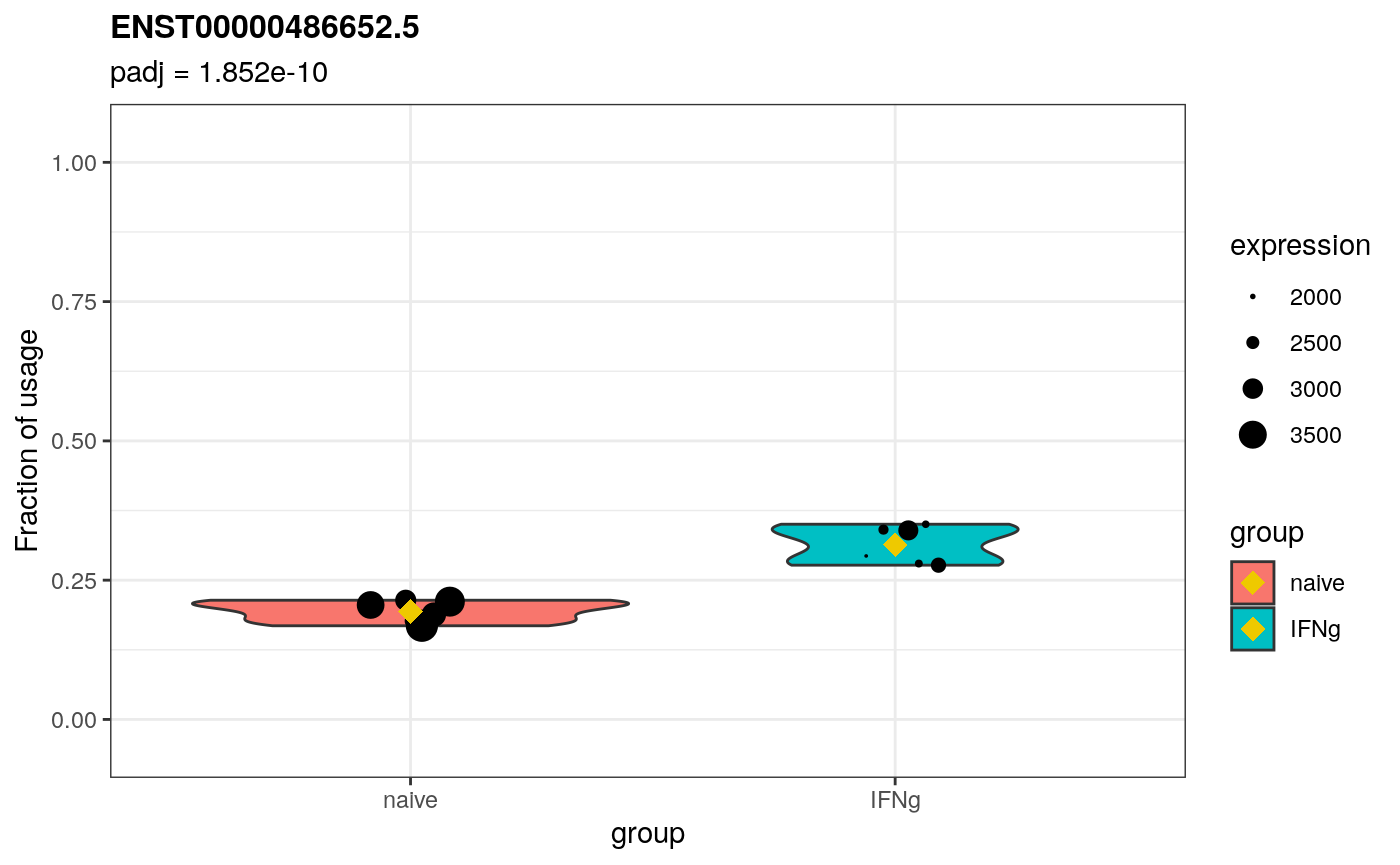
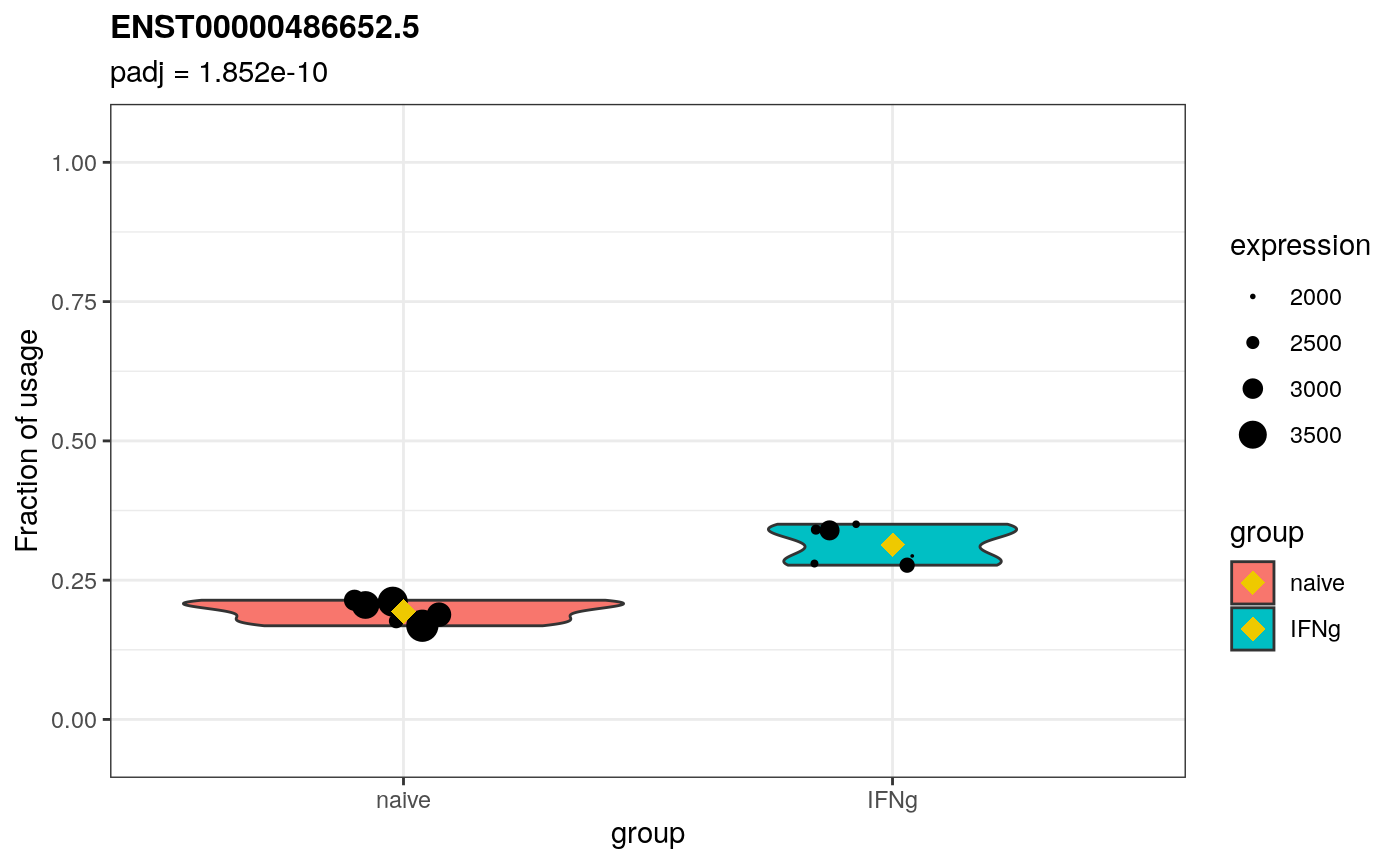
Built site for iSEEtranscripts: 0.1.1@cf42744

diff --git a/articles/transcripts.html b/articles/transcripts.html
@@ -69,7 +69,7 @@
       <h1 data-toc-skip>iSEE into genes: transcripts!</h1>
                         <h4 class="author">everyone</h4>
             
-            <h4 class="date">12/17/2020</h4>
+            <h4 class="date">12/18/2020</h4>
       
       
       <div class="hidden name"><code>transcripts.Rmd</code></div>
@@ -133,7 +133,7 @@
   <span class="va">dxd</span> <span class="op">&lt;-</span> <span class="fu"><a href="https://rdrr.io/pkg/DEXSeq/man/testForDEU.html">testForDEU</a></span><span class="op">(</span><span class="va">dxd</span>, reducedModel<span class="op">=</span><span class="op">~</span><span class="va">sample</span> <span class="op">+</span> <span class="va">exon</span><span class="op">)</span>
 <span class="op">}</span><span class="op">)</span></code></pre></div>
 <pre><code>##    user  system elapsed 
-##  14.009   1.509  12.673</code></pre>
+##  14.562   4.926  11.793</code></pre>
 <div class="sourceCode" id="cb10"><pre class="downlit sourceCode r">
 <code class="sourceCode R"><span class="va">dxr</span> <span class="op">&lt;-</span> <span class="fu"><a href="https://rdrr.io/pkg/DEXSeq/man/DEXSeqResults.html">DEXSeqResults</a></span><span class="op">(</span><span class="va">dxd</span>, independentFiltering<span class="op">=</span><span class="cn">FALSE</span><span class="op">)</span>
 <span class="va">qval</span> <span class="op">&lt;-</span> <span class="fu"><a href="https://rdrr.io/pkg/DEXSeq/man/perGeneQValue.html">perGeneQValue</a></span><span class="op">(</span><span class="va">dxr</span><span class="op">)</span>
@@ -162,25 +162,25 @@
 <pre><code>##                geneID              txID         gene   transcript
 ## 1   ENSG00000225492.6 ENST00000513638.5 0.000000e+00 0.000000e+00
 ## 2   ENSG00000225492.6 ENST00000394662.2 0.000000e+00 0.000000e+00
-## 3   ENSG00000228106.5 ENST00000442171.5 0.000000e+00 2.312905e-16
+## 3   ENSG00000228106.5 ENST00000442171.5 0.000000e+00 2.312812e-16
 ## 4   ENSG00000228106.5 ENST00000450784.5 0.000000e+00 1.000000e+00
 ## 5   ENSG00000228106.5 ENST00000441676.5 0.000000e+00 1.000000e+00
 ## 6   ENSG00000228106.5 ENST00000435378.5 0.000000e+00 1.000000e+00
 ## 7   ENSG00000228106.5 ENST00000457636.5 0.000000e+00 1.000000e+00
-## 8  ENSG00000162923.15 ENST00000486652.5 4.615723e-09 1.851594e-10
-## 9  ENSG00000162923.15 ENST00000414423.7 4.615723e-09 2.625860e-06
-## 10 ENSG00000162923.15 ENST00000443112.6 4.615723e-09 1.000000e+00</code></pre>
-<div id="visualization-at-the-transcript-level" class="section level1">
-<h1 class="hasAnchor">
-<a href="#visualization-at-the-transcript-level" class="anchor"></a>Visualization at the transcript level</h1>
-<p>ENST00000486652.5 is the most significant transcript of the most significant DTU gene (ENSG00000162923.15) that does not have a p-value of exactly 0, so I will demonstrate the visualizations with this transcript. We talked about having the test statistics available within the <code>RangedSummarizedExperiment</code> prior to calling iSEE. For now, I will just add the DEXSeq + stageR adjusted p-values to the rowData.</p>
+## 8  ENSG00000162923.15 ENST00000486652.5 4.616504e-09 1.851921e-10
+## 9  ENSG00000162923.15 ENST00000414423.7 4.616504e-09 2.626296e-06
+## 10 ENSG00000162923.15 ENST00000443112.6 4.616504e-09 1.000000e+00</code></pre>
+<p>We talked about having the test statistics available within the <code>RangedSummarizedExperiment</code> prior to calling iSEE. For now, I will just add the DEXSeq + stageR adjusted p-values to the rowData.</p>
 <div class="sourceCode" id="cb14"><pre class="downlit sourceCode r">
 <code class="sourceCode R"><span class="va">se</span> <span class="op">&lt;-</span> <span class="va">se</span><span class="op">[</span><span class="fu"><a href="https://rdrr.io/r/base/colnames.html">rownames</a></span><span class="op">(</span><span class="va">se</span><span class="op">)</span> <span class="op">%in%</span> <span class="va">dex.padj</span><span class="op">$</span><span class="va">txID</span>,<span class="op">]</span> <span class="co"># filter se based on DRIMSeq filtering? Do we want that as a general rule?</span>
 <span class="fu"><a href="https://rdrr.io/pkg/SummarizedExperiment/man/SummarizedExperiment-class.html">rowData</a></span><span class="op">(</span><span class="va">se</span><span class="op">)</span><span class="op">[</span>,<span class="fu"><a href="https://rdrr.io/r/base/c.html">c</a></span><span class="op">(</span><span class="st">"gene_padj"</span>, <span class="st">"tx_padj"</span><span class="op">)</span><span class="op">]</span> <span class="op">&lt;-</span> <span class="va">dex.padj</span><span class="op">[</span><span class="fu"><a href="https://rdrr.io/r/base/match.html">match</a></span><span class="op">(</span><span class="fu"><a href="https://rdrr.io/r/base/colnames.html">rownames</a></span><span class="op">(</span><span class="va">se</span><span class="op">)</span>,<span class="va">dex.padj</span><span class="op">$</span><span class="va">txID</span><span class="op">)</span>,<span class="fu"><a href="https://rdrr.io/r/base/c.html">c</a></span><span class="op">(</span><span class="st">"gene"</span>, <span class="st">"transcript"</span><span class="op">)</span><span class="op">]</span></code></pre></div>
-<div id="raw-usages" class="section level2">
+<div id="visualize-raw-usages" class="section level1">
+<h1 class="hasAnchor">
+<a href="#visualize-raw-usages" class="anchor"></a>Visualize raw usages</h1>
+<p>ENST00000486652.5 is the most significant transcript of the most significant DTU gene (ENSG00000162923.15) that does not have a p-value of exactly 0, so I will demonstrate the visualizations with this transcript.</p>
+<div id="compute-proportions" class="section level2">
 <h2 class="hasAnchor">
-<a href="#raw-usages" class="anchor"></a>Raw usages</h2>
-<p>Compute proportions</p>
+<a href="#compute-proportions" class="anchor"></a>Compute proportions</h2>
 <div class="sourceCode" id="cb15"><pre class="downlit sourceCode r">
 <code class="sourceCode R"><span class="co"># Function based on DEXSeq's classes.R</span>
 <span class="va">.getTotalCount</span> <span class="op">&lt;-</span> <span class="kw">function</span><span class="op">(</span><span class="va">countData</span>, <span class="va">tx2gene</span><span class="op">)</span> <span class="op">{</span>
@@ -203,7 +203,10 @@
 
 <span class="fu"><a href="https://rdrr.io/pkg/SummarizedExperiment/man/SummarizedExperiment-class.html">assays</a></span><span class="op">(</span><span class="va">se</span><span class="op">)</span><span class="op">$</span><span class="va">gene</span> <span class="op">&lt;-</span> <span class="fu">.getTotalCount</span><span class="op">(</span><span class="fu"><a href="https://rdrr.io/pkg/SummarizedExperiment/man/SummarizedExperiment-class.html">assays</a></span><span class="op">(</span><span class="va">se</span><span class="op">)</span><span class="op">$</span><span class="va">counts</span>,<span class="va">tx2gene</span><span class="op">)</span>
 <span class="fu"><a href="https://rdrr.io/pkg/SummarizedExperiment/man/SummarizedExperiment-class.html">assays</a></span><span class="op">(</span><span class="va">se</span><span class="op">)</span><span class="op">$</span><span class="va">proportions</span> <span class="op">&lt;-</span> <span class="fu"><a href="https://rdrr.io/pkg/SummarizedExperiment/man/SummarizedExperiment-class.html">assays</a></span><span class="op">(</span><span class="va">se</span><span class="op">)</span><span class="op">$</span><span class="va">counts</span><span class="op">/</span><span class="fu"><a href="https://rdrr.io/pkg/SummarizedExperiment/man/SummarizedExperiment-class.html">assays</a></span><span class="op">(</span><span class="va">se</span><span class="op">)</span><span class="op">$</span><span class="va">gene</span></code></pre></div>
-<p>Sanity check</p>
+</div>
+<div id="sanity-check" class="section level2">
+<h2 class="hasAnchor">
+<a href="#sanity-check" class="anchor"></a>Sanity check</h2>
 <div class="sourceCode" id="cb16"><pre class="downlit sourceCode r">
 <code class="sourceCode R"><span class="fu"><a href="https://rdrr.io/r/utils/head.html">head</a></span><span class="op">(</span><span class="fu"><a href="https://rdrr.io/pkg/SummarizedExperiment/man/SummarizedExperiment-class.html">assays</a></span><span class="op">(</span><span class="va">se</span><span class="op">)</span><span class="op">$</span><span class="va">counts</span><span class="op">[</span><span class="st">"ENST00000486652.5"</span>,<span class="op">]</span><span class="op">)</span> <span class="co"># sanity check for target transcript</span></code></pre></div>
 <pre><code>## SAMEA103885102 SAMEA103885347 SAMEA103885182 SAMEA103885136 SAMEA103885368 
@@ -222,7 +225,11 @@
 ##      0.2114202      0.3393544      0.1881279      0.2798234      0.1767497 
 ## SAMEA103885218 
 ##      0.3503511</code></pre>
-<p>Raw usage visualization function (work in progress) For now, the input is the name of a transcript. Alternatively, it could also be the name of a gene, showing the usages of all its transcripts, either in 1 figure or in separate facets.</p>
+</div>
+<div id="by-using-ggplot" class="section level2">
+<h2 class="hasAnchor">
+<a href="#by-using-ggplot" class="anchor"></a>By using ggplot</h2>
+<p>For now, the input is the name of a transcript. Alternatively, it could also be the name of a gene, showing the usages of all its transcripts, either in 1 figure or in separate facets.</p>
 <div class="sourceCode" id="cb22"><pre class="downlit sourceCode r">
 <code class="sourceCode R"><span class="kw"><a href="https://rdrr.io/r/base/library.html">library</a></span><span class="op">(</span><span class="va"><a href="http://ggplot2.tidyverse.org">ggplot2</a></span><span class="op">)</span>
 
@@ -261,9 +268,10 @@
 <span class="va">gg</span></code></pre></div>
 <p><img src="transcripts_files/figure-html/unnamed-chunk-13-1.png" width="700"></p>
 </div>
-<div id="drimseq-proportions" class="section level2">
-<h2 class="hasAnchor">
-<a href="#drimseq-proportions" class="anchor"></a>DRIMSeq proportions</h2>
+</div>
+<div id="visualize-drimseq-proportions" class="section level1">
+<h1 class="hasAnchor">
+<a href="#visualize-drimseq-proportions" class="anchor"></a>Visualize DRIMSeq proportions</h1>
 <p>The <code>plotproportions</code> function only takes dmDSfit, dmDStest, dmSQTLfit or dmSQTLtest objects. In other words, we cannot run the <code>plotproportions</code> function out of the box without first calling the <code>dmPrecision</code> and <code>dmFit</code>, which is unnecessary and quite slow.</p>
 <p>As such, to leverage <code>plotproportions</code> I have started from the source code. Its just to give you an idea of what DRIMSeq is doing. I here opted for the <code>barplot</code>, but in larger sample settings I guess we should move to violin/boxplots.</p>
 <div class="sourceCode" id="cb23"><pre class="downlit sourceCode r">
@@ -363,7 +371,6 @@
 <span class="va">ggp</span> <span class="op">&lt;-</span> <span class="fu">DRIMSeqPlotLocal</span><span class="op">(</span>RSE <span class="op">=</span> <span class="va">se</span>, group <span class="op">=</span> <span class="fu"><a href="https://rdrr.io/pkg/SummarizedExperiment/man/SummarizedExperiment-class.html">colData</a></span><span class="op">(</span><span class="va">se</span><span class="op">)</span><span class="op">$</span><span class="va">condition</span>, gene <span class="op">=</span> <span class="st">"ENSG00000162923.15"</span><span class="op">)</span>
 <span class="va">ggp</span></code></pre></div>
 <p><img src="transcripts_files/figure-html/unnamed-chunk-14-1.png" width="700"></p>
-</div>
 <div id="session-information" class="section level2">
 <h2 class="hasAnchor">
 <a href="#session-information" class="anchor"></a>Session information</h2>
